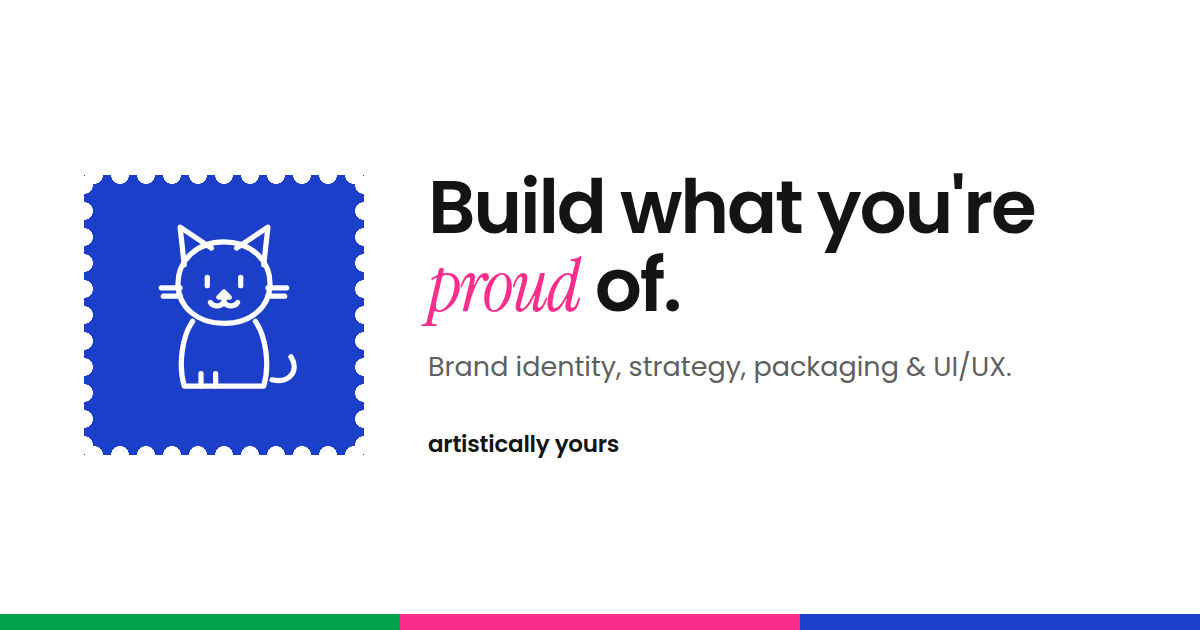
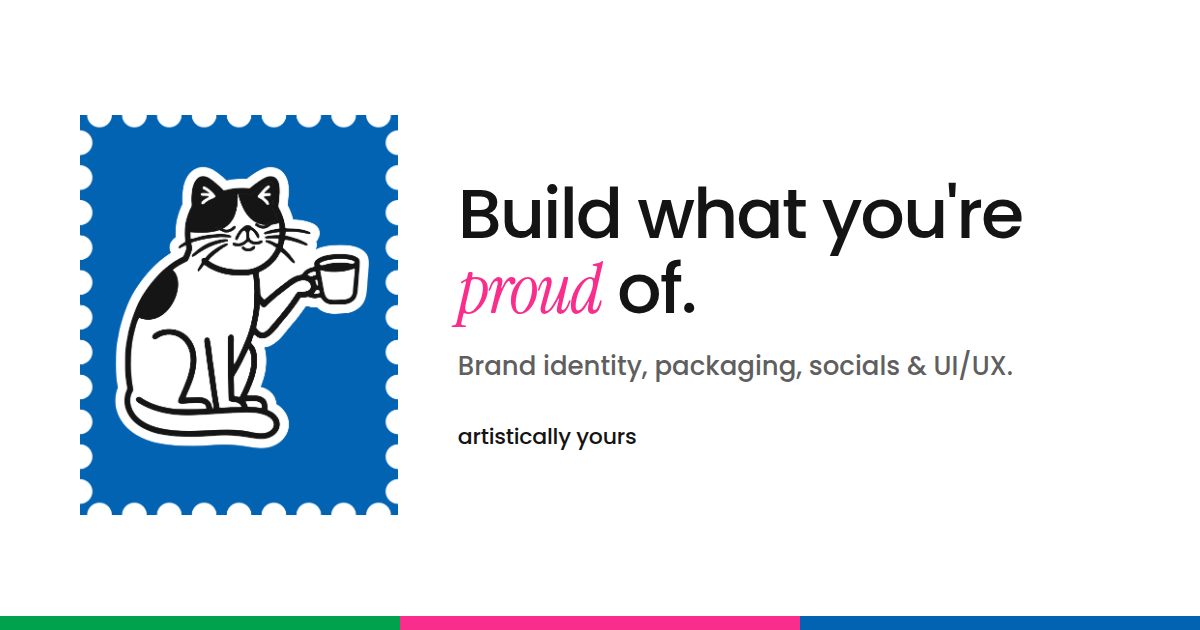
Use the real studio mascot and correct the brand blue
- Hero uses the supplied stamp artwork (its scalloped edge is already
  transparent, so it sits on the page cleanly)
- Cut a transparent, de-fringed cat from the same file for the Success
  and Let's Talk sections; drop the placeholder SVG mascot
- Rebuild favicon, apple icon and the social card with the real cat
- Brand blue corrected to #0263b2, taken from the artwork itself; the
  site was using #1b3fc9, which was noticeably more violet
- Move the uploaded file out of the repo root into public/

Claude-Session: https://claude.ai/code/session_01RcjTKuRfHoGWPA1NssRAsb

Changed region(s): [[0.0617, 0.181, 0.8633, 0.8143], [0.0, 0.9651, 1.0, 1.0]]

diff --git a/components/Hero.tsx b/components/Hero.tsx
@@ -1,8 +1,8 @@
 "use client";
 
 import { motion } from "framer-motion";
+import Image from "next/image";
 import { hero } from "@/lib/content";
-import CatMascot from "@/components/CatMascot";
 
 const ease = [0.22, 1, 0.36, 1] as const;
 
@@ -13,16 +13,22 @@ export default function Hero() {
       className="px-5 pb-20 pt-32 sm:px-10 sm:pb-28 sm:pt-40 lg:pt-44"
     >
       <div className="mx-auto grid max-w-[76rem] items-center gap-10 md:grid-cols-[minmax(0,320px)_1fr] md:gap-16">
-        {/* Mascot in a postage-stamp frame */}
+        {/* Studio mascot — the artwork already includes the stamp frame,
+            with the scalloped edge cut out as transparency. */}
         <motion.div
           initial={{ opacity: 0, scale: 0.94, rotate: -3 }}
           animate={{ opacity: 1, scale: 1, rotate: 0 }}
           transition={{ duration: 0.9, delay: 0.15, ease }}
-          className="stamp mx-auto w-56 sm:w-72 md:mx-0"
+          className="mx-auto w-56 sm:w-72 md:mx-0"
         >
-          <div className="flex aspect-square items-center justify-center bg-blue">
-            <CatMascot className="h-4/5 w-4/5" stroke="#ffffff" />
-          </div>
+          <Image
+            src="/mascot-stamp.png"
+            alt="Zepu, the Artistically Yours studio cat, on a postage stamp"
+            width={1314}
+            height={1654}
+            priority
+            className="h-auto w-full"
+          />
         </motion.div>
 
         {/* Headline */}

diff --git a/components/Contact.tsx b/components/Contact.tsx
@@ -3,7 +3,7 @@
 import { useState } from "react";
 import Reveal from "@/components/Reveal";
 import { contact, site } from "@/lib/content";
-import CatMascot from "@/components/CatMascot";
+import Image from "next/image";
 
 const fields = [
   { label: "first name", name: "first_name", type: "text", required: true },
@@ -57,7 +57,13 @@ export default function Contact() {
       <div className="mx-auto max-w-[76rem] px-5 sm:px-10">
         <Reveal>
           <div className="flex items-center gap-4">
-            <CatMascot className="h-16 w-16 shrink-0" stroke="#ffffff" />
+            <Image
+              src="/mascot.png"
+              alt="Zepu, the studio cat"
+              width={1225}
+              height={1567}
+              className="h-20 w-auto shrink-0"
+            />
             <div>
               <h2 className="heading text-[clamp(1.8rem,4vw,2.8rem)]">
                 {contact.heading}

diff --git a/components/AboutBlock.tsx b/components/AboutBlock.tsx
@@ -2,7 +2,7 @@
 
 import Reveal from "@/components/Reveal";
 import { about, success } from "@/lib/content";
-import CatMascot from "@/components/CatMascot";
+import Image from "next/image";
 
 export default function AboutBlock() {
   return (
@@ -49,7 +49,13 @@ export default function AboutBlock() {
       <section className="px-5 py-24 sm:px-10">
         <div className="mx-auto flex max-w-[76rem] flex-col gap-10 md:flex-row md:items-start md:gap-16">
           <Reveal className="shrink-0">
-            <CatMascot className="h-32 w-32" stroke="#141414" />
+            <Image
+              src="/mascot.png"
+              alt="Zepu, the studio cat"
+              width={1225}
+              height={1567}
+              className="h-36 w-auto"
+            />
           </Reveal>
 
           <Reveal delay={0.1}>

diff --git a/app/globals.css b/app/globals.css
@@ -9,7 +9,7 @@
   /* Brand palette from the design */
   --green: #00a24e;
   --pink: #f92e8c;
-  --blue: #1b3fc9;
+  --blue: #0263b2;
 }
 
 @theme inline {
